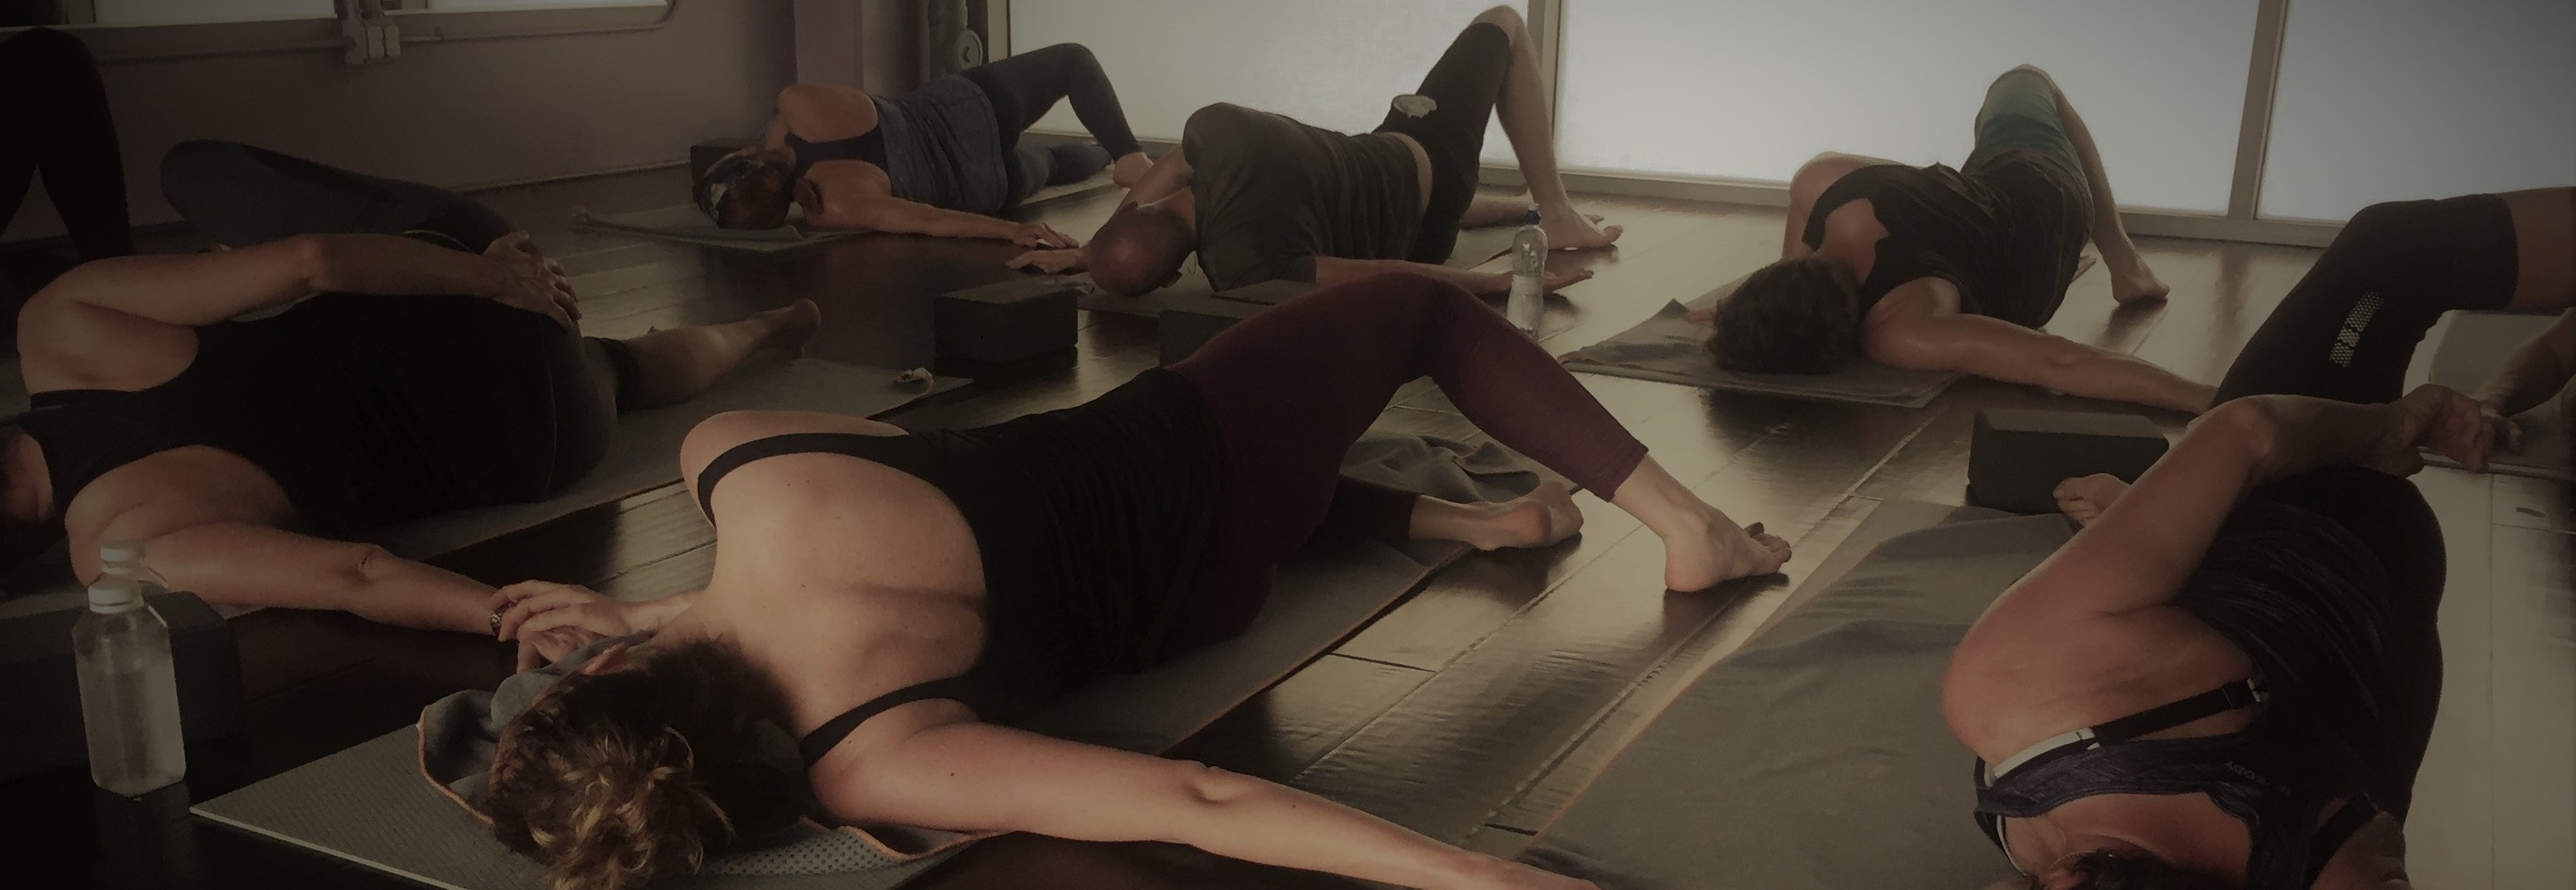
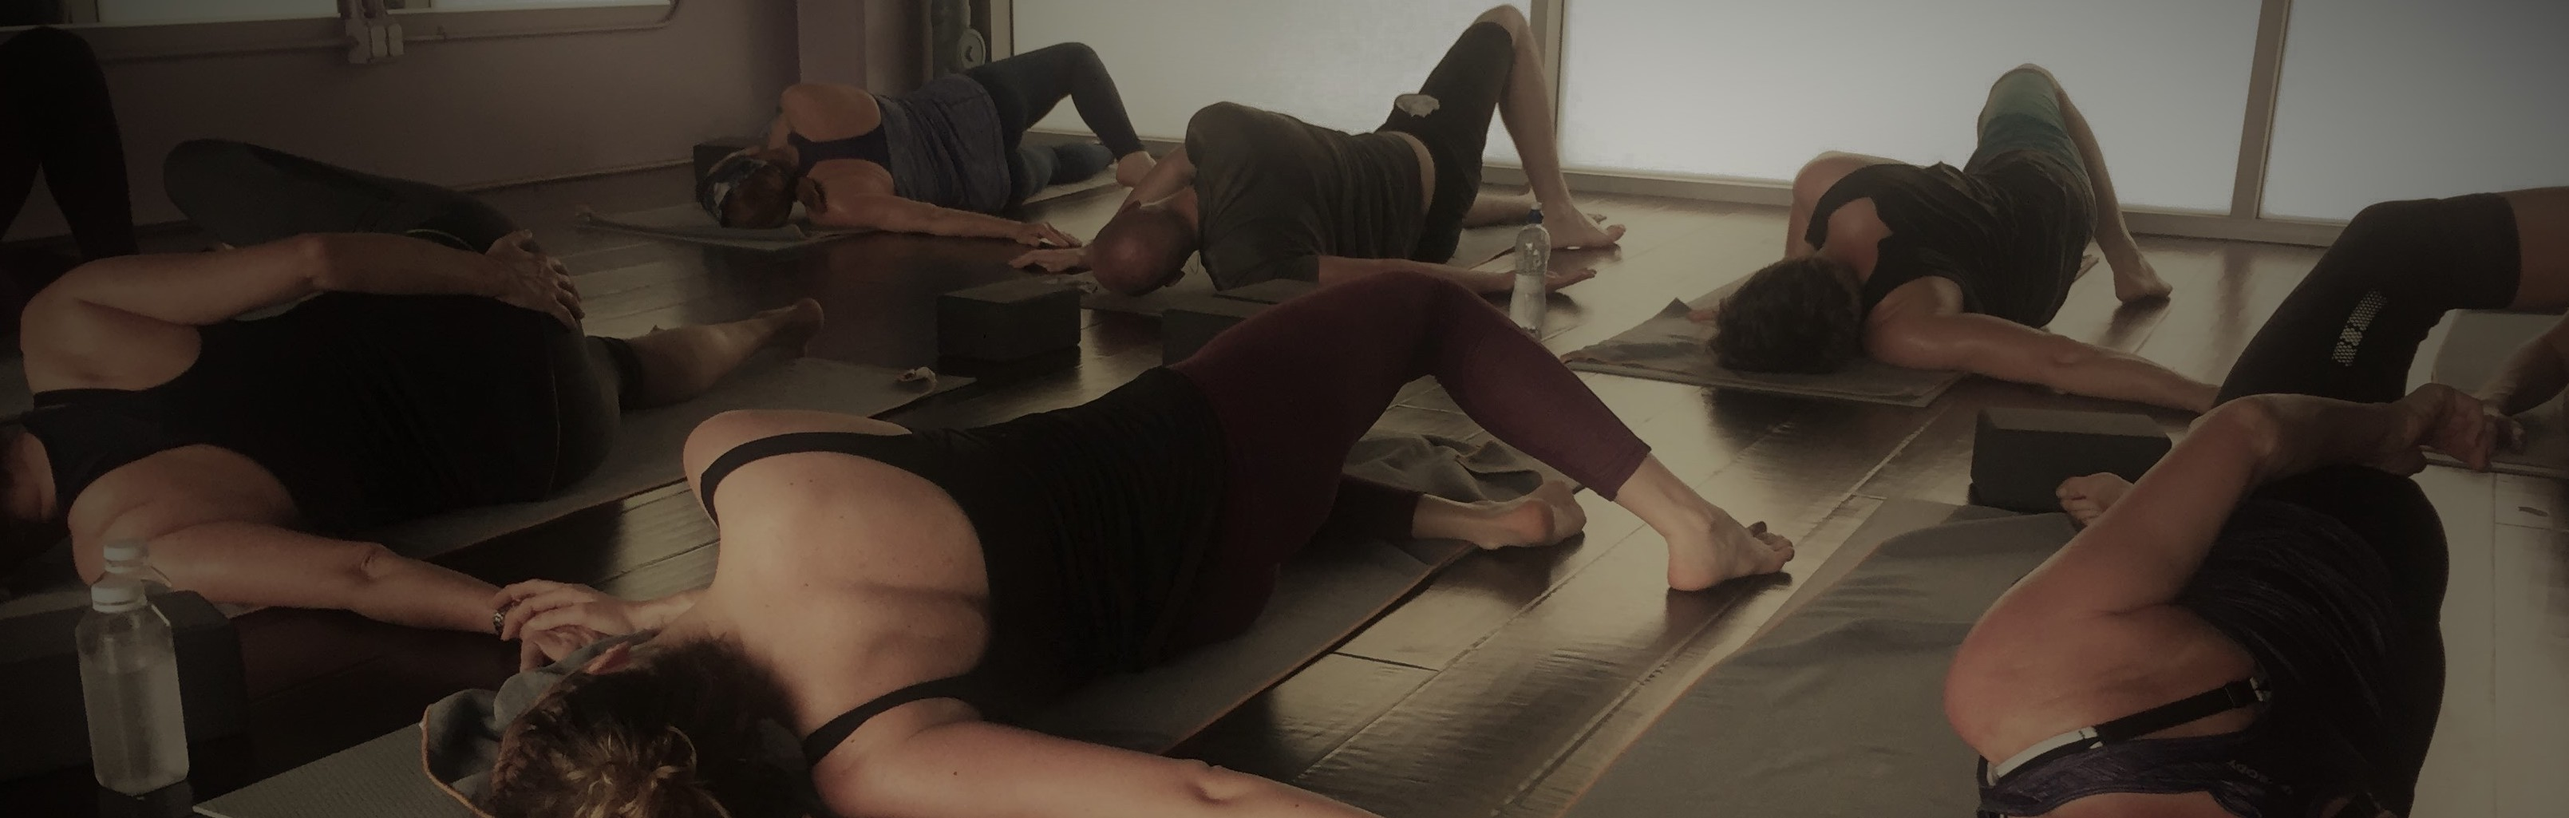
.

diff --git a/client/src/components/Contactfolder/ContactPicText.js b/client/src/components/Contactfolder/ContactPicText.js
@@ -23,6 +23,7 @@ const StyleContactPicText = styled.div`
     display: flex;
     align-self: center;
     color: #8d6262;
+    margin: px;
   }
 
   h2,
@@ -33,15 +34,13 @@ const StyleContactPicText = styled.div`
     font-size: 1em;
   }
 
-  h3 {
-    margin-top: 2%;
+  ${'' /* h3 {
     font-size: 0.9em;
-    /* color: #84142d; */
     color: #4d4545;
     margin-bottom: 0;
     margin-top: 20px;
     font-weight: 400;
-  }
+  } */}
 
   @media only screen and (max-width: 637px) {
     h1 {
@@ -62,7 +61,7 @@ const ContactText = () => {
           <h1>Boka yogalektion</h1>
           <h2>Mejl: matildaeden@gmail.com</h2>
           <h2>Telefon: 0704-809205</h2>
-          <h3>Eller skicka ett meddelande till mig:</h3>
+          {/* <h3>Skicka meddelande till mig:</h3> */}
         </section>
       </div>
     </StyleContactPicText>

diff --git a/client/src/components/classesFolder/Classes.js b/client/src/components/classesFolder/Classes.js
@@ -2,7 +2,7 @@ import React, { Component } from 'react'
 import { StyleClasses } from './StyleClasses'
 import { Link } from 'react-router-dom'
 import yogaklassPic from '../assets/images/yogaklass-massage-yogasyster.jpg'
-import yogaklassPicSmall from '../assets/images/yogaklass-massage-yogasyster-matilda.jpg'
+import yogaklassBigScreen from '../assets/images/yogaklass-massage-yogasyster-matilda.jpg'
 import björkPic from '../assets/images/björk.jpg'
 
 const Classes = () => {
@@ -14,7 +14,7 @@ const Classes = () => {
         alt='Yogasyster Matilda håller i yogaklass'
       />
       <img
-        src={yogaklassPicSmall}
+        src={yogaklassBigScreen}
         className='pic-big-screen'
         alt='Yogasyster Matilda håller i yogaklass'
       />

diff --git a/client/src/components/homeFolder/Home.js b/client/src/components/homeFolder/Home.js
@@ -61,7 +61,7 @@ const Home = () => {
         <section className='insta-container'>
           <div className='instagram-title-container'>
             <h3 className='instagram-title'>
-              Följ mig och min syster på @yogasyster
+              Följ mig på instagram @yogasyster
             </h3>
           </div>
           <article class='powr-social-feed' id='9bc6ecef_1591955690'></article>

diff --git a/client/src/components/homeFolder/StyleHomeThirdSlide.js b/client/src/components/homeFolder/StyleHomeThirdSlide.js
@@ -22,7 +22,6 @@ export const StyleHomeThirdSlide = styled.section`
     .instagram-title {
       color: #8d6262;
       font-size: 24px;
-      font-weight: 500;
       text-align: center;
     }
   }

diff --git a/client/src/components/homeFolder/StyleHomeSecondSlide.js b/client/src/components/homeFolder/StyleHomeSecondSlide.js
@@ -27,6 +27,7 @@ export const StyleHomeSecondSlide = styled.section`
     font-size: 2em;
     cursor: pointer;
     text-decoration: none;
+    font-weight: 500;
   }
 
   .link > img {
